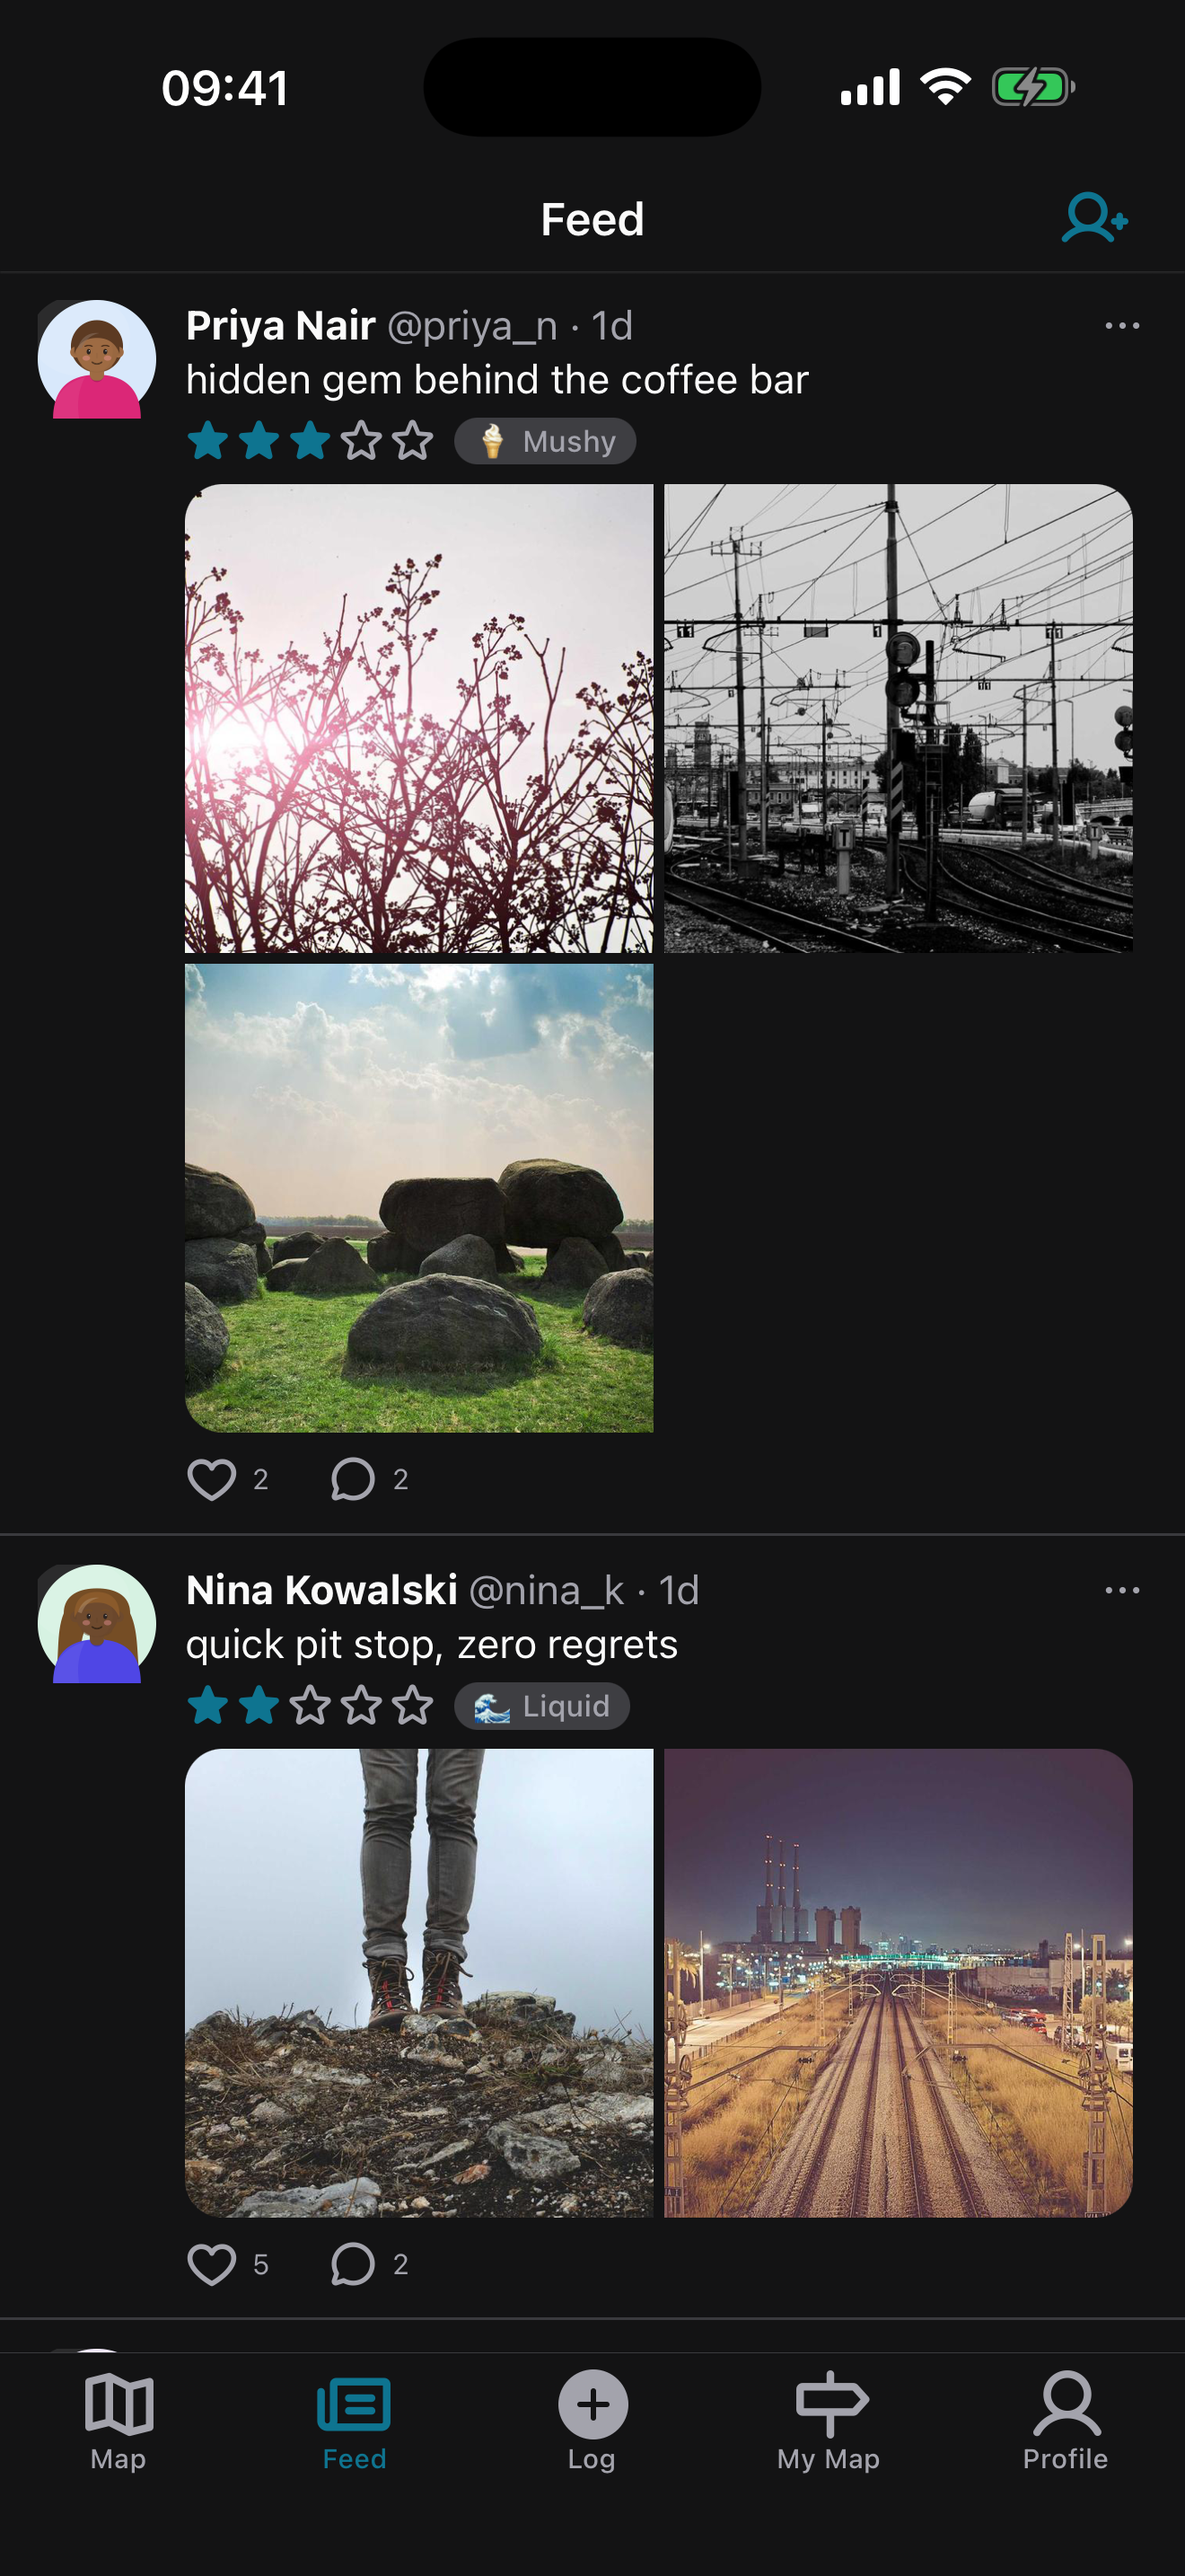
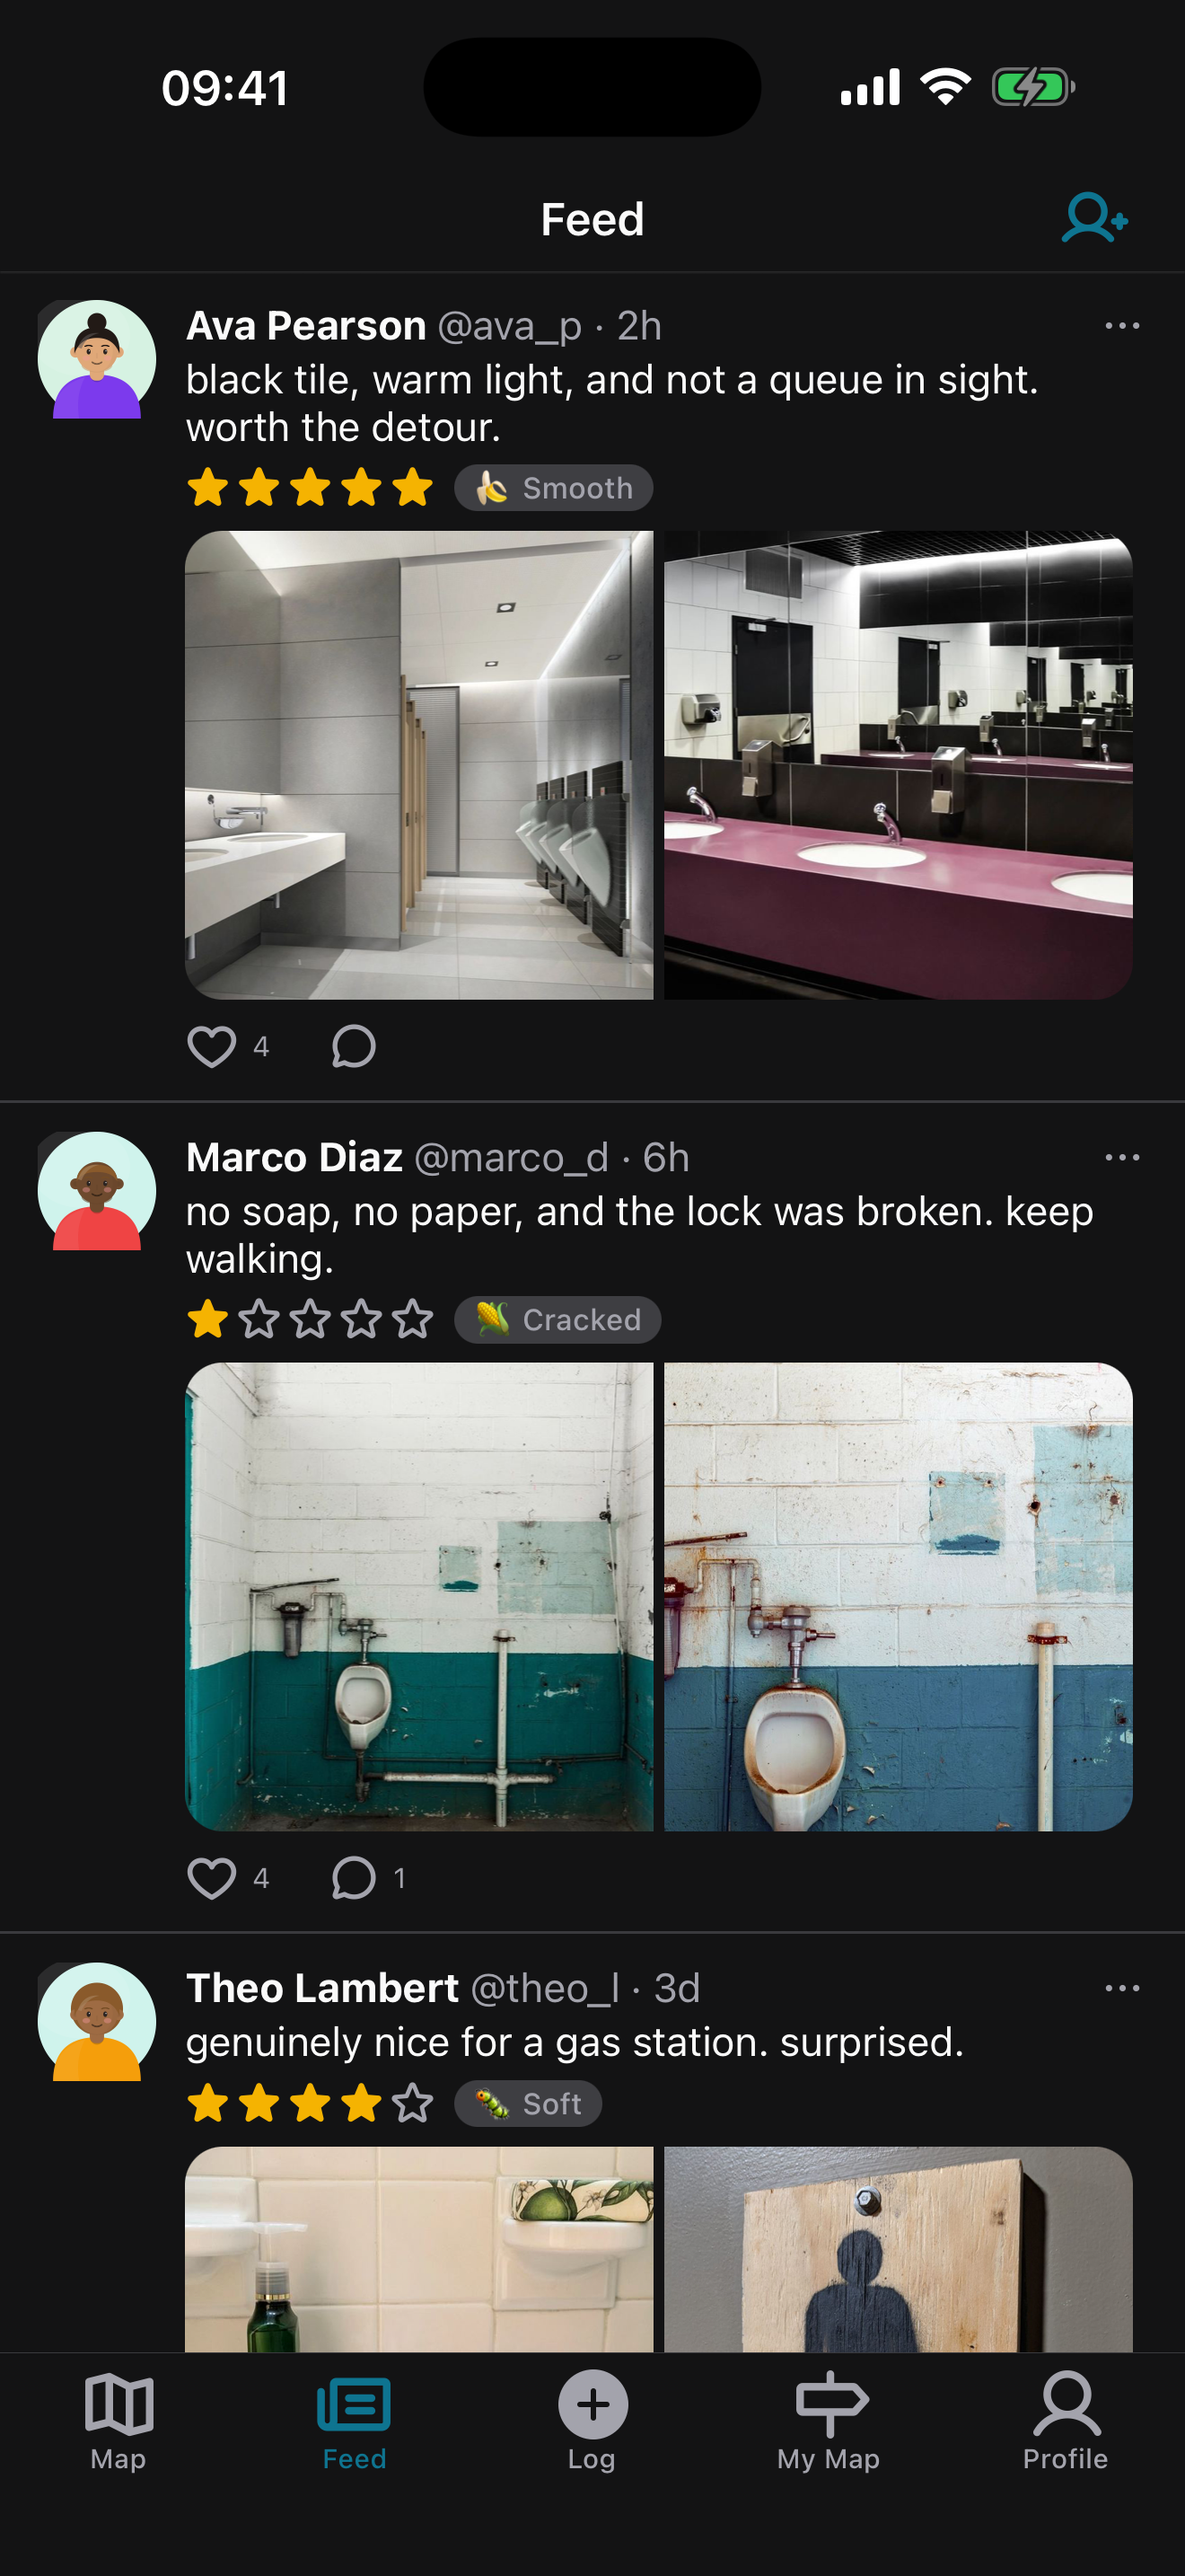
Gold rating stars, and seed photos that match their rating
Stars rendered in the brand accent, which read as a UI control rather than
a rating. They are the classic gold now, single-sourced as tokens.STAR.

The feed seed drew rating, caption and photo independently, so posts showed
'quick pit stop, zero regrets' over two stars above a stock photo of railway
tracks (picsum.photos). Ratings and captions now come from parallel arrays at
one shared index, and photos are CC0 restroom images grouped into tiers that
only ever attach to a matching rating.

Two fixes found along the way: the caption template was picked by an
uncorrelated lateral subquery, so Postgres evaluated it once and glued the same
caption onto every row; and photos are polymorphic with no FK, so seed_feed
cascading the logs away orphaned 57 photo rows that seed_engagement's cleanup
then silently missed.

diff --git a/components/ui/Stars.tsx b/components/ui/Stars.tsx
@@ -2,7 +2,7 @@ import { Icon } from './Icon';
 import { useRef } from 'react';
 import { PanResponder, View } from 'react-native';
 
-import { ACCENT } from '@/lib/tokens';
+import { STAR } from '@/lib/tokens';
 import { useColors } from '@/lib/theme';
 
 // PanResponder is only created when `onChange` is given, so a read-only display
@@ -43,7 +43,7 @@ export function Stars({
       onLayout={onChange ? (e) => (widthRef.current = e.nativeEvent.layout.width) : undefined}
       style={{ flexDirection: 'row', gap, alignSelf: 'flex-start', paddingVertical: onChange ? 4 : 0 }}>
       {[1, 2, 3, 4, 5].map((n) => (
-        <Icon key={n} name={n <= value ? 'star' : 'star-outline'} size={size} color={n <= value ? ACCENT : c.content2} />
+        <Icon key={n} name={n <= value ? 'star' : 'star-outline'} size={size} color={n <= value ? STAR : c.content2} />
       ))}
     </View>
   );

diff --git a/lib/tokens.ts b/lib/tokens.ts
@@ -9,6 +9,12 @@ export { ACCENT } from '@/theme/brand';
 export const DANGER = '#DC2626'; // destructive actions / selected marker / closed now
 export const OPEN = '#16A34A'; // open-now label (matches ACCESS.public green)
 
+// Rating stars are the classic gold everyone already reads as a rating, NOT the
+// brand accent — in accent teal they looked like just another UI control. A
+// touch deeper than AMENITY.code's amber so the two stay distinguishable, and it
+// holds contrast on both the light and dark surfaces.
+export const STAR = '#F5B301';
+
 // Amenity symbol colors — powder tones complementary to the teal accent. Each
 // symbol ALWAYS renders in its color (via components/ui/AmenityIcon) so they
 // read at a glance without labels.
